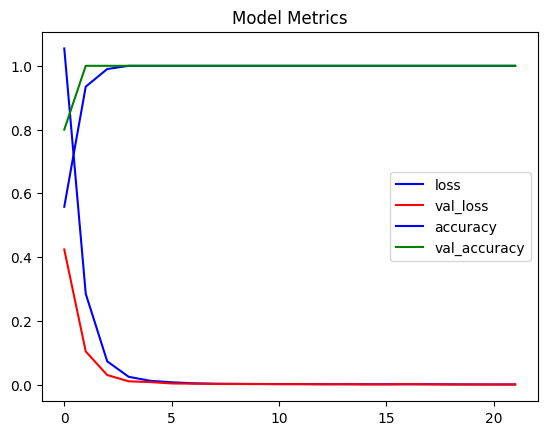
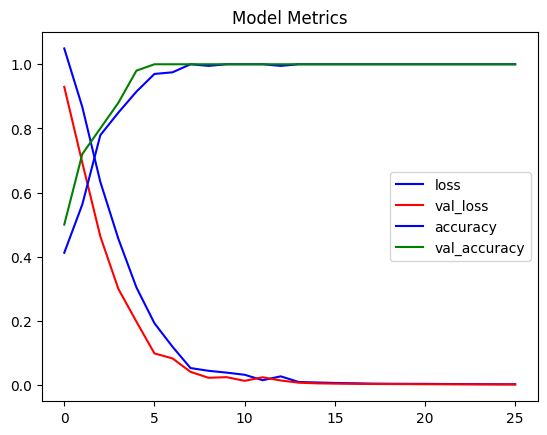
Try with sklrean Normilize, still NOT predicting correctly

diff --git a/inference.py b/inference.py
@@ -1,7 +1,7 @@
 from keras.models import load_model
 from mtcnn import MTCNN
 from my_utils import alignment_procedure
-from sklearn.preprocessing import MinMaxScaler
+from sklearn.preprocessing import Normalizer
 import ArcFace
 import cv2
 import numpy as np
@@ -23,6 +23,12 @@ args = vars(ap.parse_args())
 # source = args["source"]
 path_saved_model = args["model"]
 # threshold = args["conf"]
+
+normalizer = Normalizer()
+dataframe = pd.read_csv('data.csv')
+x_data = dataframe.copy()
+y = x_data.pop('names')
+x_norm = normalizer.fit(x_data)
 
 # Load saved model
 face_rec_model = load_model(path_saved_model, compile=True)
@@ -60,9 +66,9 @@ while True:
 
             # Normalise
             x = data.values #returns a numpy array
-            min_max_scaler = MinMaxScaler()
-            x_scaled = min_max_scaler.fit_transform(x)
-            data = pd.DataFrame(x_scaled)
+            # min_max_scaler = MinMaxScaler()
+            x_normed = x_norm.transform(x)
+            data = pd.DataFrame(x_normed)
 
             predict = face_rec_model.predict(data)[0]
             print(predict)

diff --git a/train.py b/train.py
@@ -9,7 +9,7 @@ from sklearn.model_selection import train_test_split
 import matplotlib.pyplot as plt
 import os
 import pandas as pd
-from sklearn.preprocessing import MinMaxScaler
+from sklearn.preprocessing import Normalizer
 
 
 
@@ -61,9 +61,9 @@ df = pd.DataFrame(x, columns=np.arange(512))
 
 # Normalise
 x = df.values #returns a numpy array
-min_max_scaler = MinMaxScaler()
-x_scaled = min_max_scaler.fit_transform(x)
-df = pd.DataFrame(x_scaled)
+normalizer = Normalizer()
+x_norm = normalizer.fit_transform(x)
+df = pd.DataFrame(x_norm)
 
 df['names'] = y
 # print(df)
